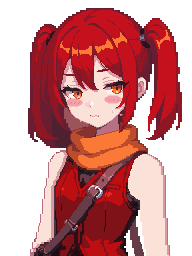
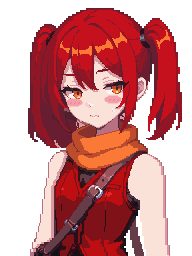
Jieyan: jaw, neck, right cheek edge and ear redrawn by the model, and every face's body copied from her everyday portrait
The faces now keep only their own eyes, brows, mouth and cheeks; everything
else is portrait.png, so her jaw and body no longer change between faces.

diff --git a/game/art/NOTES.md b/game/art/NOTES.md
@@ -36,6 +36,10 @@
 - **怪物**：學徒背面腳邊有幾顆鹽晶碎點；莫葛腳下留一條細陰影。
 - 這一輪的圖都沒有在遊戲裡實際看過。
 
+## 第三輪（上一輪要重做的地方）
+
+- **婕焰的下巴、脖子、右臉和頭髮交界、耳朵**：在 `portrait.png` 上用局部重繪重畫（遮罩避開眼睛、嘴、臉紅），選了下巴線最順、耳朵完整露出的一張，再把下巴附近 8 顆藍灰色雜點換成旁邊的顏色。之後所有差分只保留眼睛、眉毛、嘴、臉頰（臉紅和汗）這幾塊，其餘全部用 `portrait.png` 的像素蓋回去（遮罩存在暫存的 `jin_parts.png`：左眼 50–94 × 66–104、右眼 94–136 × 64–102、嘴 76–108 × 104–126、兩頰）。
+
 ## 上一輪的總結
 
 清單第 0 到 6 項全部做完，每項都已提交並推到分支，`manifest.js` 都已登記。沒有跳過任何一項。
